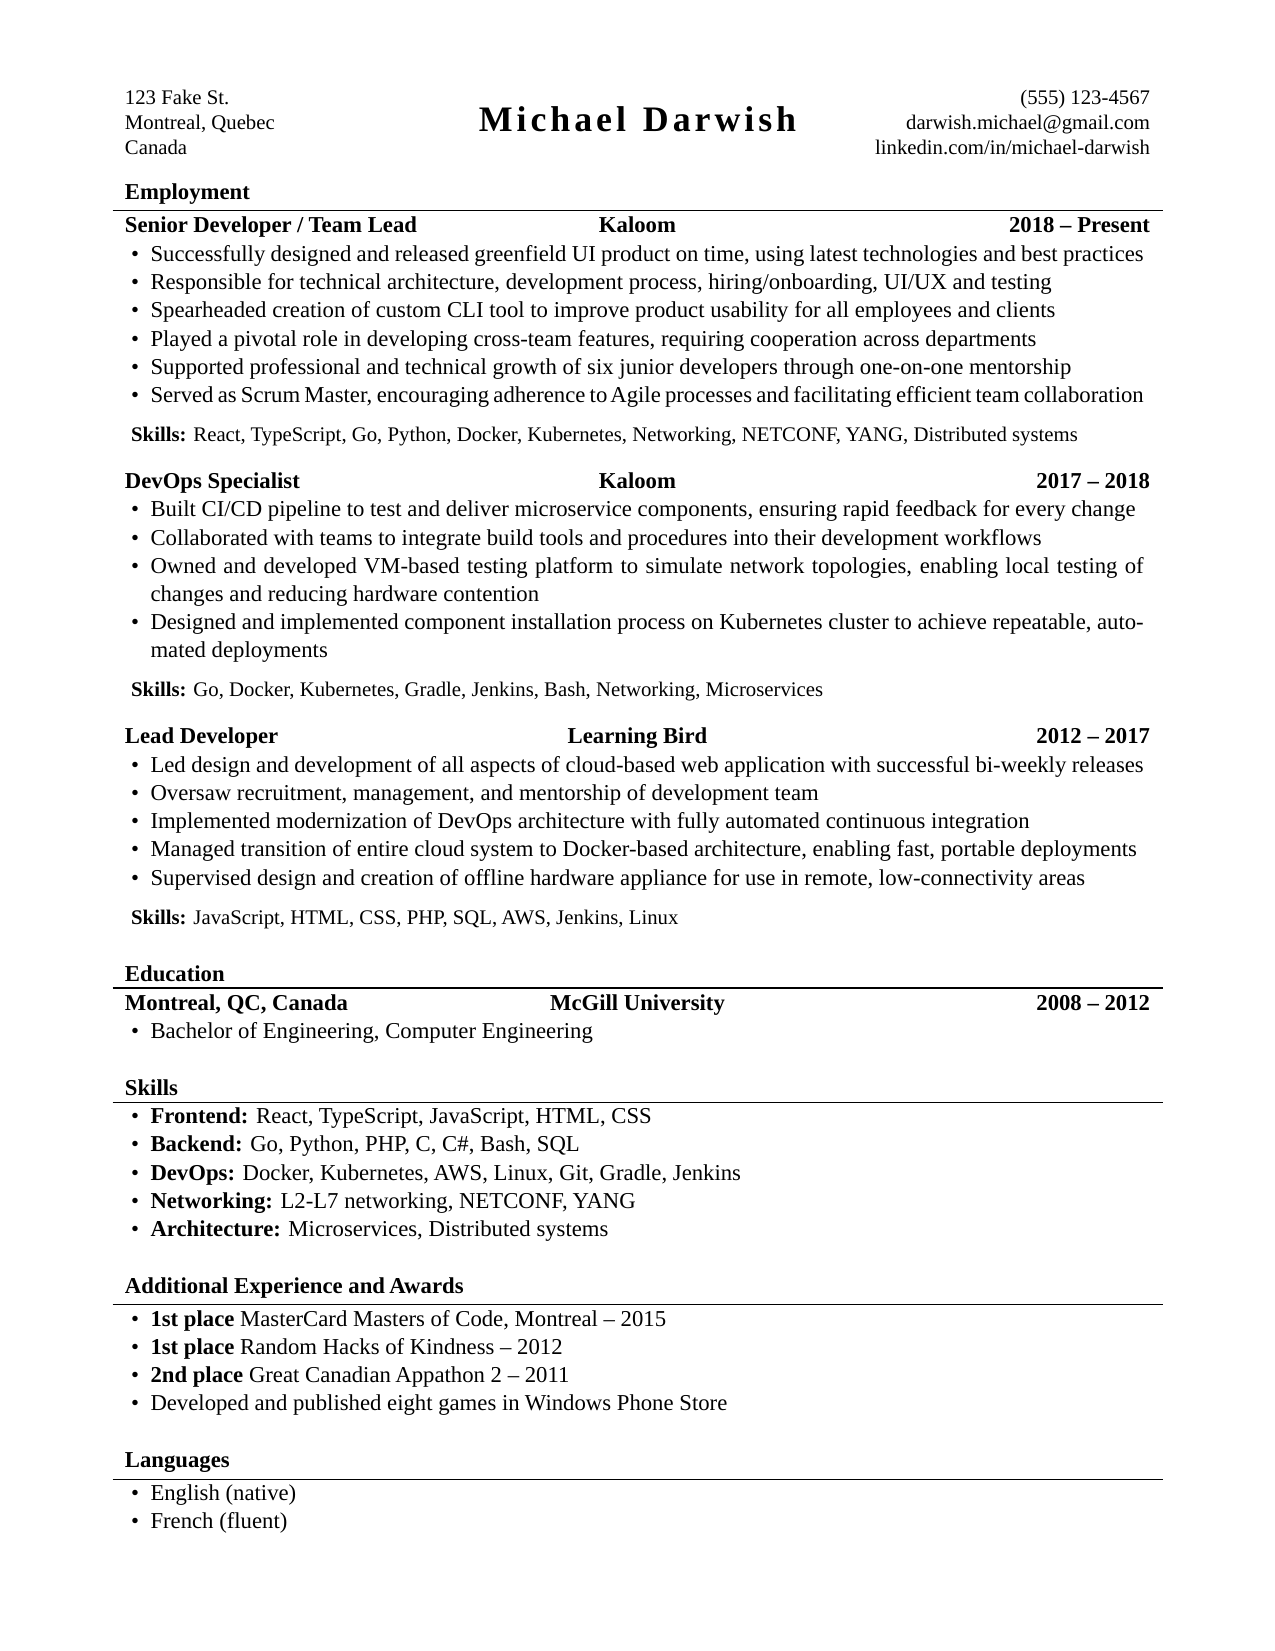
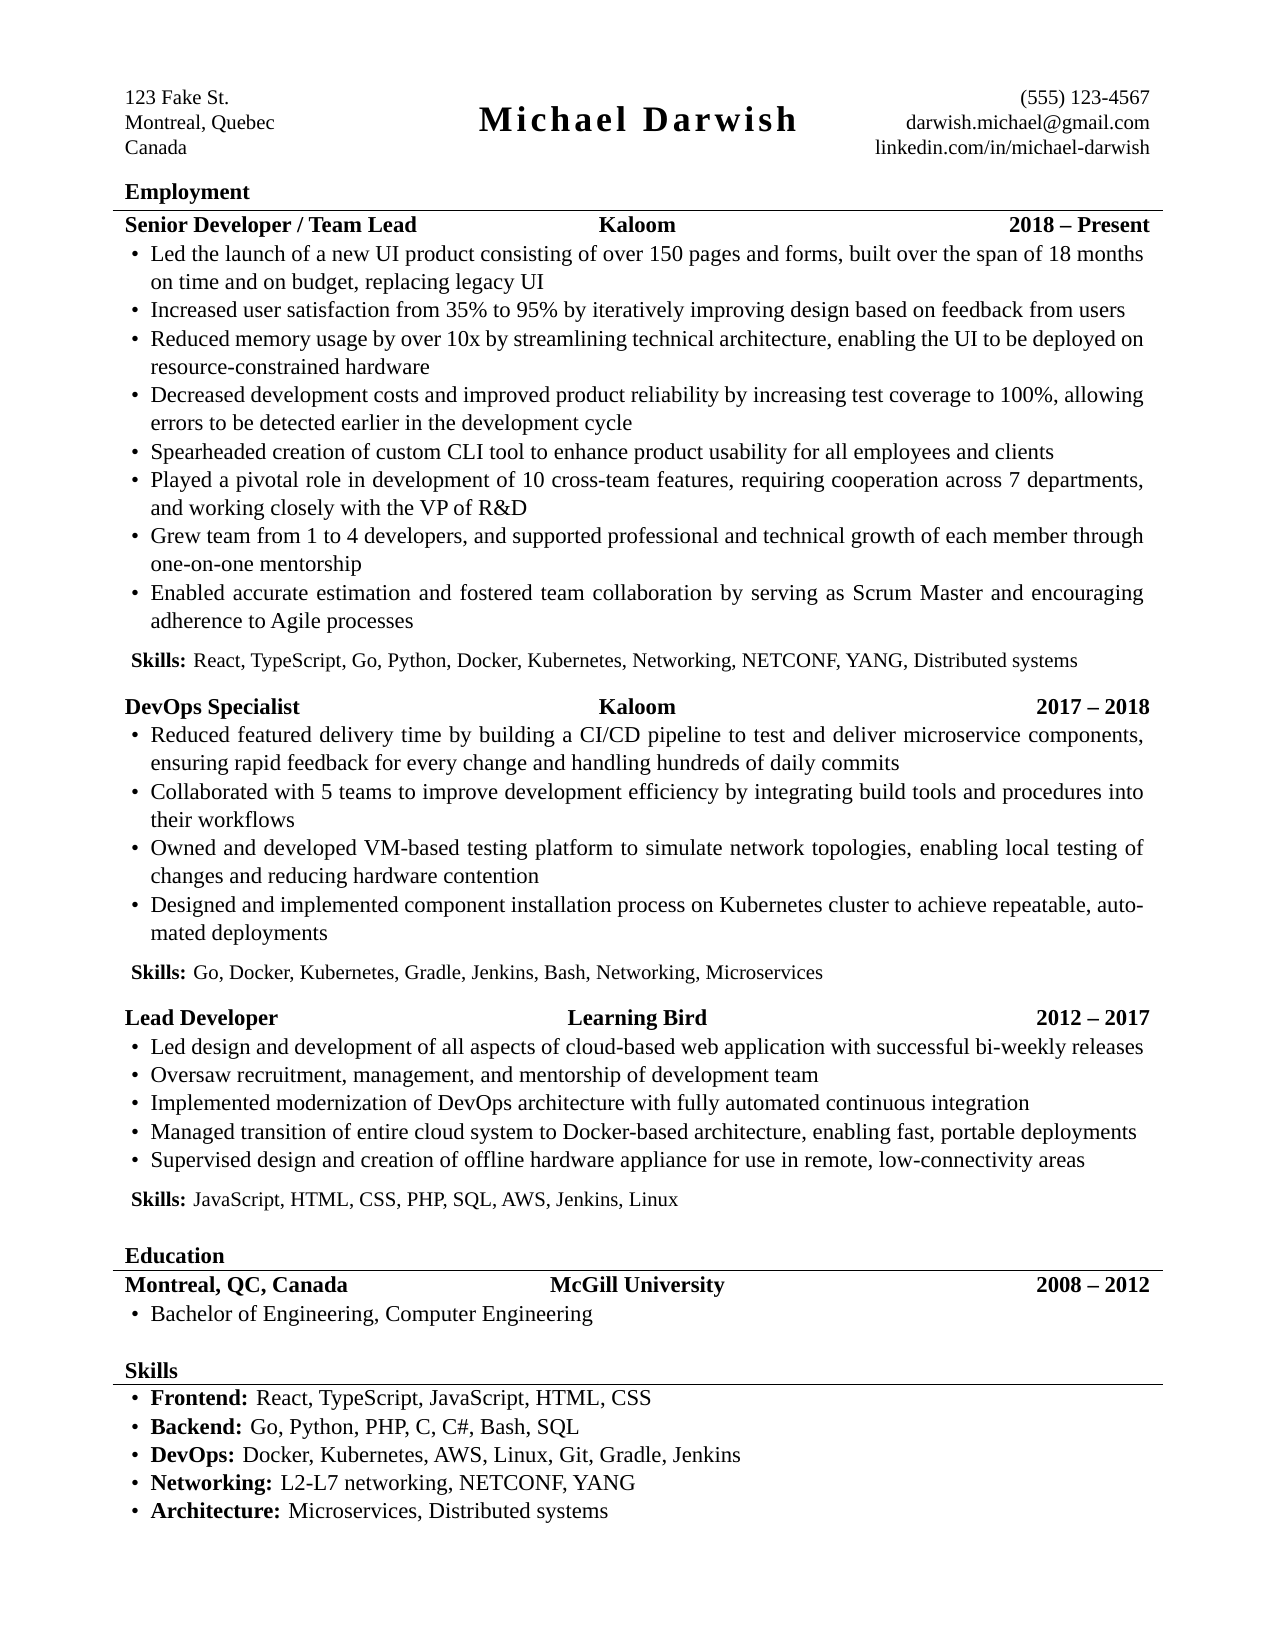
Update CV

Changed region(s): [[0.0918, 0.1545, 0.9176, 0.9267], [0.8259, 0.7723, 0.8871, 0.8031]]

diff --git a/cv.tex b/cv.tex
@@ -51,20 +51,22 @@
 	\begin{cvsection}{Employment}
 		\begin{cvsubsection}{Senior Developer / Team Lead}{Kaloom}{2018 -- Present}
 			\begin{itemize}
-				\item Successfully designed and released greenfield UI product on time, using latest technologies and best practices
-				\item Responsible for technical architecture, development process, hiring/onboarding, UI/UX and testing
-				\item Spearheaded creation of custom CLI tool to improve product usability for all employees and clients
-				\item Played a pivotal role in developing cross-team features, requiring cooperation across departments
-				\item Supported professional and technical growth of six junior developers through one-on-one mentorship
-				\item Served as Scrum Master, encouraging adherence to Agile processes and facilitating efficient team collaboration
+				\item Led the launch of a new UI product consisting of over 150 pages and forms, built over the span of 18 months on time and on budget, replacing legacy UI
+				\item Increased user satisfaction from 35\% to 95\% by iteratively improving design based on feedback from users
+				\item Reduced memory usage by over 10x by streamlining technical architecture, enabling the UI to be deployed on resource-constrained hardware
+				\item Decreased development costs and improved product reliability by increasing test coverage to 100\%, allowing errors to be detected earlier in the development cycle
+				\item Spearheaded creation of custom CLI tool to enhance product usability for all employees and clients
+				\item Played a pivotal role in development of 10 cross-team features, requiring cooperation across 7 departments, and working closely with the VP of R\&D
+				\item Grew team from 1 to 4 developers, and supported professional and technical growth of each member through one-on-one mentorship
+				\item Enabled accurate estimation and fostered team collaboration by serving as Scrum Master and encouraging adherence to Agile processes
 			\end{itemize}
 			\small{\textbf{Skills:} React, TypeScript, Go, Python, Docker, Kubernetes, Networking, NETCONF, YANG, Distributed systems}
 		\end{cvsubsection}
 
 		\begin{cvsubsection}{DevOps Specialist}{Kaloom}{2017 -- 2018}
 			\begin{itemize}
-				\item Built CI/CD pipeline to test and deliver microservice components, ensuring rapid feedback for every change
-				\item Collaborated with teams to integrate build tools and procedures into their development workflows
+				\item Reduced featured delivery time by building a CI/CD pipeline to test and deliver microservice components, ensuring rapid feedback for every change and handling hundreds of daily commits
+				\item Collaborated with 5 teams to improve development efficiency by integrating build tools and procedures into their workflows
 				\item Owned and developed VM-based testing platform to simulate network topologies, enabling local testing of changes and reducing hardware contention
 				\item Designed and implemented component installation process on Kubernetes cluster to achieve repeatable, automated deployments
 			\end{itemize}
@@ -106,10 +108,11 @@
 	\begin{cvsection}{Additional Experience and Awards}
 		\begin{cvsubsection}{}{}{}
 			\begin{itemize}
-				\item \textbf{1st place} MasterCard Masters of Code, Montreal -- 2015
-				\item \textbf{1st place} Random Hacks of Kindness -- 2012
-				\item \textbf{2nd place} Great Canadian Appathon 2 -- 2011
-				\item Developed and published eight games in Windows Phone Store
+				\item \textbf{1st place} MasterCard Masters of Code, Montreal (2015) -- Won 1st place out of 17 teams, granting entry into the International Masters of Code hackathon in San Francisco, by building a web app to enable automatic payments for groups of people with shared expenses
+				\item \textbf{1st place} Random Hacks of Kindness (2012) -- Won 1st place out of 14 teams by building a game to raise awareness of healthcare issues in developing countries
+				\item \textbf{2nd place} Great Canadian Appathon 2 (Sept 2011) -- Won 2nd place out of 125 teams by building a fully functional, archery game for mobile devices
+				\item \textbf{3rd place} Great Canadian Appathon (Mar 2011) -- Won 3rd place out of 94 teams by building a space-themed game for mobile devices
+				\item Developed and published eight games in the Windows Phone Store, which were downloaded and installed on over 30,000 devices
 			\end{itemize}
 		\end{cvsubsection}
 	\end{cvsection}
